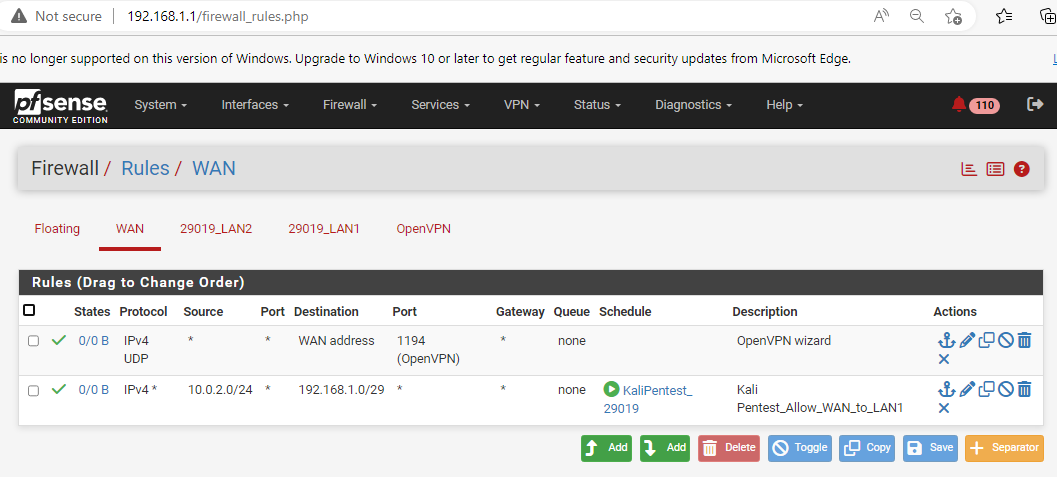
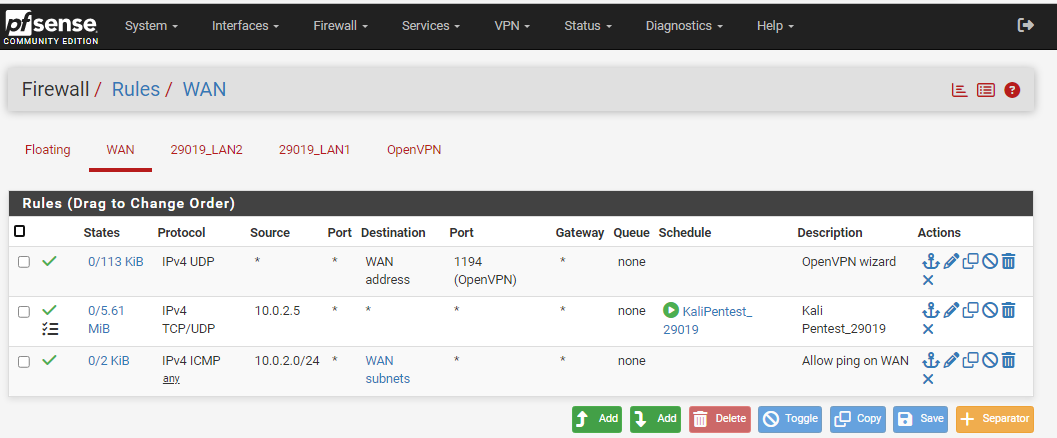
Second Batch

diff --git a/Documentation site/windows.html b/Documentation site/windows.html
@@ -2,14 +2,10 @@
 <html lang="en">
   <head>
     <meta charset="utf-8" />
-
     <meta name="viewport" content="width=device-width,initial-scale=1" />
-
     <title>Windows Server - 29019 Project</title>
-
     <link rel="stylesheet" href="style.css" />
   </head>
-
   <body>
     <main class="wrap" role="main">
       <div class="card" aria-label="Main Navigation">
@@ -18,7 +14,6 @@
         <nav class="nav-menu">
           <ul>
             <li><a href="index.html">Home</a></li>
-
             <li><a href="windows.html" class="active">Windows Server</a></li>
 
             <li><a href="linux.html">Linux Server</a></li>
@@ -27,7 +22,7 @@
 
             <li><a href="vpn.html">VPN (OpenVPN)</a></li>
 
-            <li><a href="security.html">Security Monitoring</a></li>
+            <li><a href="wazuh.html">Wazuh Server</a></li>
 
             <li><a href="backup.html">Backup & Restore</a></li>
 
@@ -53,8 +48,9 @@
 
         <p>
           The Active Directory Users and Computers (ADUC) console view confirms
-          the creation of required OUs (IT, HR, Students, Finance) and the
-          sample user accounts within them, following the naming convention.
+          the creation of required OUs (IT, HR, Students, Finance) and their
+          respective user accounts within them, following the naming convention.
+          As well the computers, which joined the "29019.f25" domain.
         </p>
 
         <img
@@ -67,8 +63,9 @@
 
         <p>
           The Domain Name System (DNS) server configuration confirms the forward
-          lookup zone for the `StudentID.f25` domain and the necessary host
-          records for the DC and other services.
+          lookup zone for the "29019.f25" domain and the necessary host records
+          for the DC and other services. As well showcasing their ip address,
+          either dynamically or statically.
         </p>
 
         <img
@@ -94,7 +91,8 @@
 
           <li>GPO_29019_MappedDrives</li>
 
-          <li>GPO_29019_SoftwareDeploy (Not pictured, but included in list)</li>
+          <li>GPO_29019_SoftwareDeploy</li>
+          <li>GPO_29019_NTP</li>
         </ul>
 
         <img
@@ -108,7 +106,8 @@
         <p>
           The password policy settings are configured to meet strict security
           requirements (minimum 12 characters, history of 5, and account lockout
-          after 3 failed attempts).
+          after 3 failed attempts). Also enforcing password complexity, password
+          history, and minimum password length.
         </p>
 
         <img
@@ -120,9 +119,12 @@
         <h3>Roaming Profiles Path</h3>
 
         <p>
-          The Roaming Profile GPO settings showing the exact path pointing to
-          the centralized Samba share hosted on the Linux Server
-          (\\LS-StudentID\roaming\StudentID\%username%).
+          This screenshot shows the File Explorer on the Domain Controller
+          (AD-29019), specifically withn the specified path C:\roaming\29019. It
+          displays a user profile folder named "Fin1.V2", "HR1.V2", "IT1.V2",
+          and "Stud1.V2", which was automatically generated and synchronized
+          when the user logs onto the machine. Thus verifying the roaming
+          profile (GPO) is successfully.
         </p>
 
         <img
@@ -134,9 +136,13 @@
         <h3>Client Verification (gpresult)</h3>
 
         <p>
-          The output of the `gpresult /r` command run on the Windows client PC
-          (PC1) proves that the custom GPOs, including the Roaming profile and
-          Mapped Drives policies, have been successfully applied.
+          This screenshot captures the output of the "gpresult /r" command,
+          which was executed on the client machine (PC1-29019) with
+          Administrator privileges. Running the command this way forces the
+          system to display both the User Settings and the Computer Settings.
+          This is critical evidence that proves all GPOs are successfully linked
+          and applied to both the user (for Mapped Drives, Roaming Profiles, and
+          Software) and the computer (for Password Policy and NTP settings).
         </p>
 
         <img
@@ -149,8 +155,7 @@
 
         <p>
           A screenshot from the client PC (PC1) verifying that the GPO
-          successfully mapped the centralized shared drive (e.g., Z:) to the
-          Linux Samba share location.
+          successfully mapped the centralized shared drive to this Computer.
         </p>
 
         <img

diff --git a/Documentation site/wazuh.html b/Documentation site/wazuh.html
@@ -3,7 +3,7 @@
   <head>
     <meta charset="utf-8" />
     <meta name="viewport" content="width=device-width,initial-scale=1" />
-    <title>Security Monitoring - 29019 Project</title>
+    <title>Wazuh Server - 29019 Project</title>
     <link rel="stylesheet" href="style.css" />
   </head>
   <body>
@@ -18,7 +18,7 @@
             <li><a href="pfsense.html">pfSense Firewall</a></li>
             <li><a href="vpn.html">VPN (OpenVPN)</a></li>
             <li>
-              <a href="security.html" class="active">Security Monitoring</a>
+              <a href="wazuh.html" class="active">Wazuh Server</a>
             </li>
             <li><a href="backup.html">Backup & Restore</a></li>
             <li><a href="testing.html">Testing</a></li>
@@ -41,7 +41,8 @@
         <h3>Wazuh Login Screen</h3>
         <p>
           The login screen for the Wazuh manager interface, confirming the
-          successful deployment of the OVA (4.14.0) and web access.
+          successful deployment of the OVA (4.14.0) and web access. As well
+          showing the change of hostname to my studentID as instructed.
         </p>
         <img
           src="./images/wazuh_login.png"
@@ -51,9 +52,9 @@
 
         <h3>Agent Status and Connectivity</h3>
         <p>
-          The Agents tab confirms all required endpoints are enrolled and
-          active: the Domain Controller, Linux Documentation Server, and client
-          PCs. This centralized monitoring is key.
+          The Agents tab confirms all agents created are enrolled and active.
+          AS_Agent for windows server, and Agent1-29019 for Linux Documentation
+          Server.
         </p>
         <img
           src="./images/wazuh_agents_list.png"
@@ -77,24 +78,10 @@
 
         <h2>2. File Integrity Monitoring (FIM)</h2>
 
-        <h3>FIM Configuration for AD/GPO Paths</h3>
-        <p>
-          Evidence of the `ossec.conf` file snippet or the manager configuration
-          confirming the monitoring of critical paths, specifically the
-          network-mapped drives and roaming profile folders (e.g.,
-          `\\fileserver\roaming\...`).
-        </p>
-        <img
-          src="./images/wazuh_fim_ad.png"
-          alt="Wazuh FIM configuration settings showing monitored paths for Windows server and network shares."
-          class="evidence"
-        />
-
         <h3>FIM Alert Triggered</h3>
         <p>
-          A controlled test demonstrates the FIM service working: a file was
-          modified in a monitored network share, generating a high-severity
-          alert in the Wazuh console.
+          A controlled test demonstrates the FIM service working, a file was
+          modified generating alerts in the Wazuh console.
         </p>
         <img
           src="./images/wazuh_fim_alerts.png"
@@ -108,27 +95,13 @@
 
         <h3>Custom Local Rules</h3>
         <p>
-          The custom rules file (`local_rules.xml`) includes the
-          student-ID-specific rules, such as `StudentID_BruteForce_Windows` and
-          `StudentID_Scan_Network`, designed to correlate alerts and adjust
-          severity.
+          The custom rules file (`local_rules.xml`) includes the specific rules,
+          such as `29019_BruteForce_Windows` and `29019_Scan_Network`, designed
+          to correlate alerts and adjust severity.
         </p>
         <img
           src="./images/wazuh_local_rules.png"
           alt="Wazuh manager view of the local_rules.xml file containing custom detection rules."
-          class="evidence"
-        />
-
-        <h3>Suricata/IDS Alert (Correlation Proof)</h3>
-        <p>
-          This evidence (often a duplicate of an earlier Kali test screenshot,
-          but included here for context) shows a Suricata (IDS) alert correlated
-          and presented in the Wazuh dashboard, proving successful EVE JSON
-          ingestion and detection capabilities.
-        </p>
-        <img
-          src="./images/wazuh_fim_alerts.png"
-          alt="Wazuh alert showing a Suricata signature alert triggered during the Kali test."
           class="evidence"
         />
       </section>

diff --git a/Documentation site/pfsense.html b/Documentation site/pfsense.html
@@ -27,7 +27,7 @@
 
             <li><a href="vpn.html">VPN (OpenVPN)</a></li>
 
-            <li><a href="security.html">Security Monitoring</a></li>
+            <li><a href="wazuh.html">Wazuh Server</a></li>
 
             <li><a href="backup.html">Backup & Restore</a></li>
 
@@ -52,9 +52,9 @@
         <h3>Interface Assignments</h3>
 
         <p>
-          This evidence shows the assignment of interfaces: WAN (Public/NAT),
-          LAN1 (192.168.1.1/29), and LAN2 (192.168.2.1/29). Each segment is
-          correctly isolated.
+          This evidence shows the assignment of interfaces: WAN (Public/NAT)
+          (10.0.2.0/24), LAN1 (192.168.1.1/29), and LAN2 (192.168.2.1/29). Each
+          segment is correctly isolated.
         </p>
 
         <img
@@ -66,7 +66,7 @@
         <h3>DHCP Configuration</h3>
 
         <p>
-          pfSense is configured to provide DHCP service *only* to the LAN2
+          pfSense is configured to provide DHCP service only to the LAN2
           segment, fulfilling the requirement for split DHCP responsibility
           (Linux Server handles LAN1).
         </p>
@@ -95,9 +95,8 @@
         <h3>Custom Schedule Evidence</h3>
 
         <p>
-          The custom schedules for `KaliPentest_StudentID` and
-          `LAN2_NoSocial_StudentID` define the exact time windows for enforcing
-          access policies.
+          The custom schedules for "KaliPentest_29019" and "LAN2_NoSocial_29019"
+          define the exact time windows for enforcing access policies.
         </p>
 
         <img
@@ -109,9 +108,14 @@
         <h3>WAN Rules (Kali Access)</h3>
 
         <p>
-          The WAN rules, including the schedule-enforced `KaliPentest_StudentID`
+          The WAN rules, including the schedule-enforced "KaliPentest_29019"
           rule, permit external Kali traffic into the internal networks only
-          during the defined one-hour window.
+          during the defined one-hour window. 
+          <p>First rule is for openVPN</p>
+          <p>Second rule is for allowing pentest for kali VM</p>
+          <p>Last rule to allow pinging.</p>
+
+
         </p>
 
         <img
@@ -123,7 +127,7 @@
         <h3>LAN1 Rules (Inter-LAN and Web Access)</h3>
 
         <p>
-          LAN1 rules include `ALLOW_StudentID_LAN1_TO_LAN2` for bi-directional
+          LAN1 rules include "ALLOW_29019_LAN1_TO_LAN2" for bi-directional
           access and general rules allowing access to hosted web pages (IIS and
           Documentation Server).
         </p>
@@ -137,8 +141,8 @@
         <h3>LAN2 Rules (Scheduled Block)</h3>
 
         <p>
-          The scheduled `LAN2_NoSocial_StudentID` rule is shown enforcing the
-          social media block policy during the mandated office hours.
+          The scheduled "LAN2_NoSocial_29019" rule is shown enforcing the
+          social media block policy during the office hours.
         </p>
 
         <img

diff --git a/Documentation site/linux.html b/Documentation site/linux.html
@@ -17,7 +17,7 @@
             <li><a href="linux.html" class="active">Linux Server</a></li>
             <li><a href="pfsense.html">pfSense Firewall</a></li>
             <li><a href="vpn.html">VPN (OpenVPN)</a></li>
-            <li><a href="security.html">Security Monitoring</a></li>
+            <li><a href="wazuh.html">Wazuh Server</a></li>
             <li><a href="backup.html">Backup & Restore</a></li>
             <li><a href="testing.html">Testing</a></li>
           </ul>
@@ -38,8 +38,8 @@
 
         <h3>Linux Server IP Address</h3>
         <p>
-          The `ip a` command output confirms the server is configured with the
-          required static IP address of **192.168.1.3/29** on the LAN1 segment.
+          The "ip a" command output confirms the server is configured with the
+          required static IP address of 192.168.1.3/29 on the LAN1 segment.
         </p>
         <img
           src="./images/linux_network_config.png"
@@ -53,9 +53,11 @@
 
         <h3>DHCP Configuration File</h3>
         <p>
-          The configuration file confirms the Linux server is providing DHCP
-          services *only* for the **192.168.1.0/29** subnet, fulfilling the
-          requirement for split DHCP responsibility.
+          The configuration file /etc/netplan/00-installer-config.yaml/ confirms
+          the Linux server is providing DHCP services only for the
+          192.168.1.0/29 subnet, fulfilling the requirement for split DHCP
+          responsibility. With the range of 192.168.1.5 to 192.168.1.6, because
+          the other IPs have been configured statically.
         </p>
         <img
           src="./images/linux_dhcp_config.png"
@@ -65,7 +67,7 @@
 
         <h3>DHCP Service Status</h3>
         <p>
-          Screenshot of the `systemctl status isc-dhcp-server` command output,
+          Screenshot of the "systemctl status isc-dhcp-server" command output,
           confirming the DHCP service is running successfully.
         </p>
         <img
@@ -97,8 +99,10 @@
         <h3>Samba Share Access</h3>
         <p>
           A screenshot from a Windows Client PC successfully accessing the Samba
-          shares (for Roaming Profiles and Mapped Drives) hosted on the Linux
-          Server, confirming file sharing functionality across the LAN1 network.
+          shares hosted on the Linux Server, through //192.168.1.3/docs_share
+          from the windows PC confirming file sharing functionality across the
+          LAN1 network. Meaning whatever file I drag into that directory, will
+          appear in the linux server.
         </p>
         <img
           src="./images/linux_samba_share_access.png"

diff --git a/Documentation site/backup.html b/Documentation site/backup.html
@@ -17,7 +17,7 @@
             <li><a href="linux.html">Linux Server</a></li>
             <li><a href="pfsense.html">pfSense Firewall</a></li>
             <li><a href="vpn.html">VPN (OpenVPN)</a></li>
-            <li><a href="security.html">Security Monitoring</a></li>
+            <li><a href="wazuh.html">Wazuh Server</a></li>
             <li><a href="backup.html" class="active">Backup & Restore</a></li>
             <li><a href="testing.html">Testing</a></li>
           </ul>

diff --git a/Documentation site/testing.html b/Documentation site/testing.html
@@ -17,7 +17,7 @@
             <li><a href="linux.html">Linux Server</a></li>
             <li><a href="pfsense.html">pfSense Firewall</a></li>
             <li><a href="vpn.html">VPN (OpenVPN)</a></li>
-            <li><a href="security.html">Security Monitoring</a></li>
+            <li><a href="wazuh.html">Wazuh Server</a></li>
             <li><a href="backup.html">Backup & Restore</a></li>
             <li><a href="testing.html" class="active">Testing</a></li>
           </ul>

diff --git a/Documentation site/vpn.html b/Documentation site/vpn.html
@@ -17,7 +17,7 @@
             <li><a href="linux.html">Linux Server</a></li>
             <li><a href="pfsense.html">pfSense Firewall</a></li>
             <li><a href="vpn.html" class="active">VPN (OpenVPN)</a></li>
-            <li><a href="security.html">Security Monitoring</a></li>
+            <li><a href="wazuh.html">Wazuh Server</a></li>
             <li><a href="backup.html">Backup & Restore</a></li>
             <li><a href="testing.html">Testing</a></li>
           </ul>

diff --git a/Documentation site/index.html b/Documentation site/index.html
@@ -17,7 +17,7 @@
             <li><a href="linux.html">Linux Server</a></li>
             <li><a href="pfsense.html">pfSense Firewall</a></li>
             <li><a href="vpn.html">VPN (OpenVPN)</a></li>
-            <li><a href="security.html">Security Monitoring</a></li>
+            <li><a href="wazuh.html">Wazuh Server</a></li>
             <li><a href="backup.html">Backup & Restore</a></li>
             <li><a href="testing.html">Testing</a></li>
           </ul>
